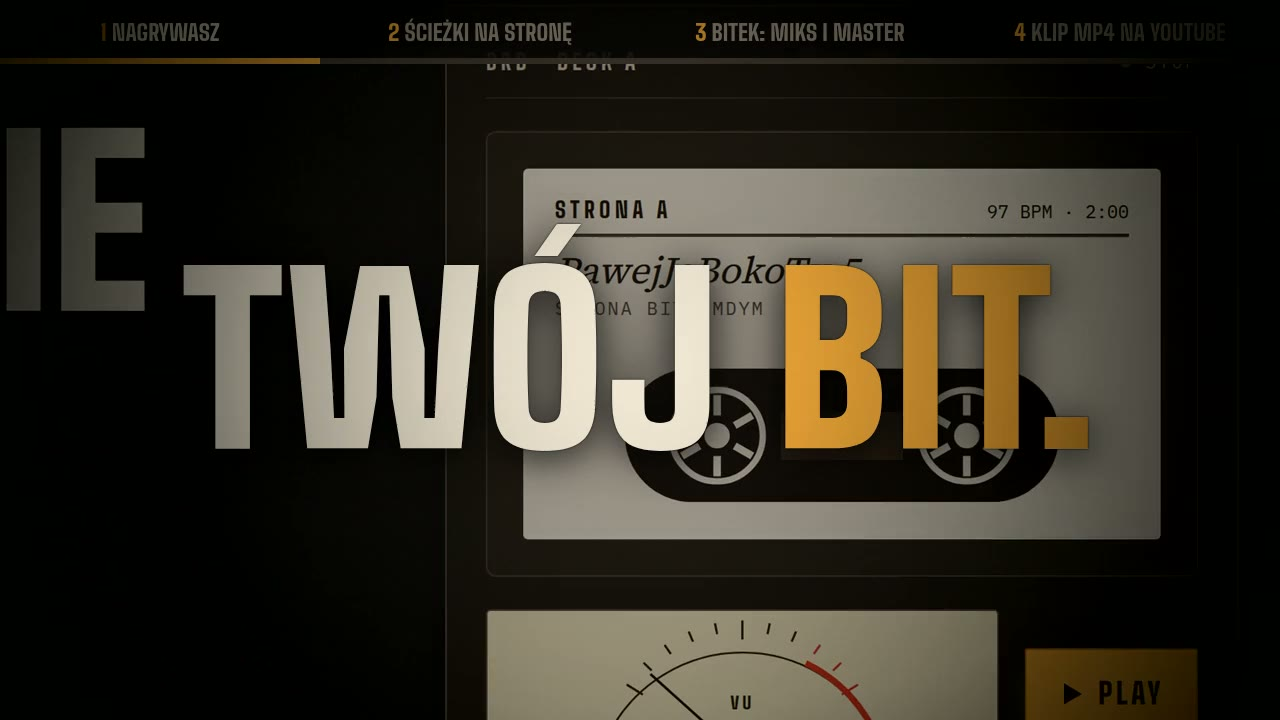
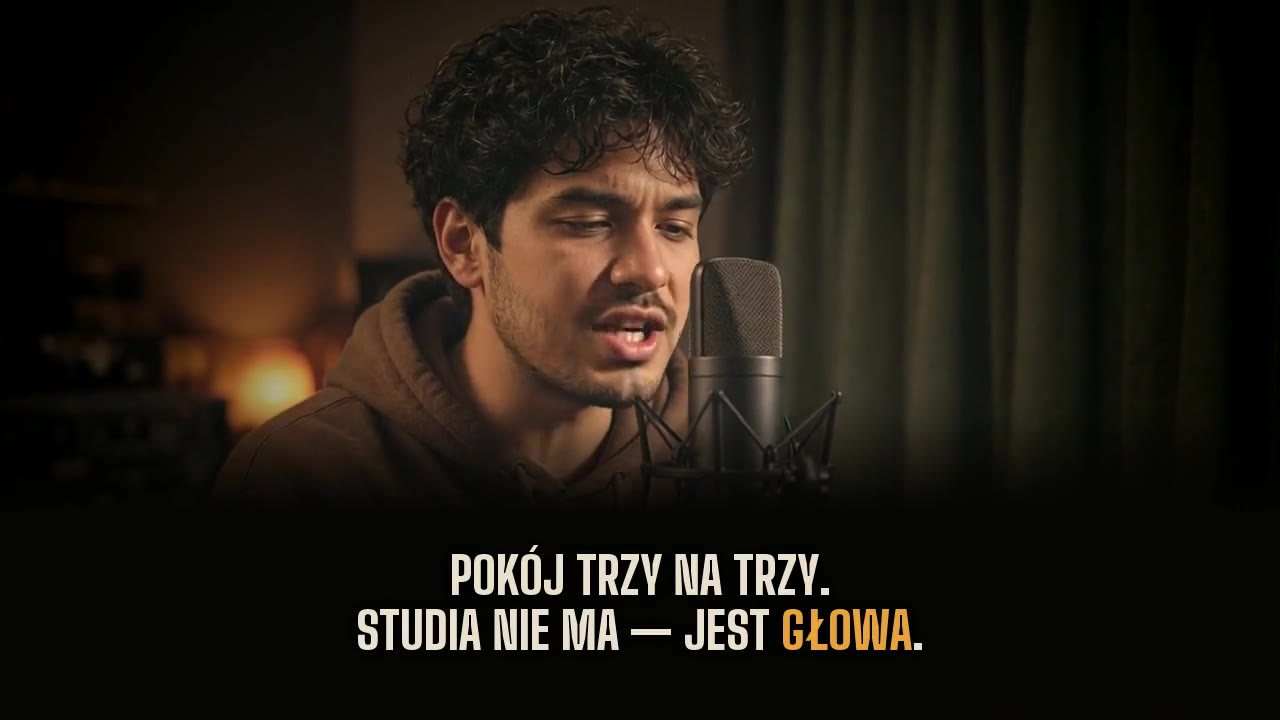
Strona główna: film obok kroków, nowa okładka filmu, karty planów (pełna tabela po rozwinięciu), krótsze i czytelniejsze teksty, nagłówek katalogu na górze

diff --git a/src/app/page.tsx b/src/app/page.tsx
@@ -19,8 +19,11 @@ import { toPublicCatalogItem } from "@/lib/beats/public";
 import { listPublishedBeats } from "@/lib/beats/service";
 import { presentBeats } from "@/lib/ui/demo-beats";
 import type { PremiumTier } from "@/types/premium";
+import { cn } from "@/lib/utils";
 
 const HOME_TIERS: PremiumTier[] = ["FREE", "BRONZE", "SILVER", "GOLD"];
+/** Rows shown on the plan cards; the full table stays one click away. */
+const CARD_ROW_IDS = ["take", "sesje", "sciezki", "stemy", "mastery", "pobieranie"] as const;
 const TIER_LABEL: Record<PremiumTier, string> = {
   FREE: "Free",
   BRONZE: "Bronze",
@@ -317,10 +320,6 @@ export default async function HomePage() {
         {/* CATALOG — side A tracklist */}
         <section aria-labelledby="home-katalog" className="border-b border-tape-line">
           <div className={`${wrap} py-[var(--tape-section-y)]`}>
-            <CommunityShelf current="beats" tone="tape" />
-            <p className="mb-6 max-w-prose text-sm leading-relaxed text-tape-cream-soft sm:text-base">
-              {community("pitch")}
-            </p>
             <div className="mb-6 flex flex-wrap items-end justify-between gap-4 border-b-4 border-tape-cream pb-3">
               <h2
                 id="home-katalog"
@@ -335,7 +334,11 @@ export default async function HomePage() {
                 {t("pelnySpis")}{" "}<span aria-hidden="true">→</span>
               </Link>
             </div>
+            <CommunityShelf current="beats" tone="tape" />
             <HomeTracklist beats={strip} />
+            <p className="mt-6 max-w-prose border-l-2 border-tape-amber pl-4 text-sm leading-relaxed text-tape-cream-soft sm:text-base">
+              {community("pitch")}
+            </p>
           </div>
         </section>
 
@@ -403,26 +406,31 @@ export default async function HomePage() {
             >
               {t("jakToDziala")}
             </h2>
-            <HomePromoFilm />
-            <ol className="mt-10 grid gap-y-10 sm:grid-cols-2 sm:gap-x-8 lg:grid-cols-4 lg:gap-x-0">
-              {steps.map((step, i) => (
-                <li key={step.title} className="relative lg:pr-8">
-                  <div aria-hidden="true" className="mb-4 flex items-center gap-3">
-                    <span className="size-3 rounded-full border-2 border-tape-amber bg-tape-soot" />
-                    <span className="h-px flex-1 bg-[repeating-linear-gradient(90deg,var(--tape-line-strong)_0_6px,transparent_6px_10px)]" />
-                  </div>
-                  <p className="font-poster text-6xl font-black leading-none text-tape-amber tabular-nums">
-                    {i + 1}
-                  </p>
-                  <h3 className="mt-3 font-poster text-2xl font-bold uppercase leading-none text-tape-cream">
-                    {step.title}
-                  </h3>
-                  <p className="mt-2 max-w-[36ch] text-sm leading-relaxed text-tape-cream-soft sm:text-base">
-                    {step.body}
-                  </p>
-                </li>
-              ))}
-            </ol>
+            <div className="mt-8 grid gap-10 lg:grid-cols-12 lg:items-start lg:gap-12">
+              <div className="lg:sticky lg:top-24 lg:col-span-7">
+                <HomePromoFilm />
+              </div>
+              <ol className="grid gap-x-8 gap-y-6 sm:grid-cols-2 lg:col-span-5 lg:grid-cols-1 lg:gap-y-5">
+                {steps.map((step, i) => (
+                  <li
+                    key={step.title}
+                    className="grid grid-cols-[2.75rem_minmax(0,1fr)] gap-x-3 border-b border-tape-line pb-5 last:border-0"
+                  >
+                    <p className="font-poster text-4xl font-black leading-none text-tape-amber tabular-nums">
+                      {i + 1}
+                    </p>
+                    <div>
+                      <h3 className="font-poster text-xl font-bold uppercase leading-none text-tape-cream sm:text-2xl">
+                        {step.title}
+                      </h3>
+                      <p className="mt-1.5 text-sm leading-relaxed text-tape-cream-soft sm:text-base">
+                        {step.body}
+                      </p>
+                    </div>
+                  </li>
+                ))}
+              </ol>
+            </div>
             <p className="mt-8 text-sm text-tape-cream-soft sm:text-base">
               <Link href="/jak-nagrac" className="underline underline-offset-4 hover:text-tape-cream" data-testid="home-limits-license-link">
                 {t("limityILicencja")}
@@ -448,7 +456,55 @@ export default async function HomePage() {
               </strong>
               {t("szczegolyHoldICo")}
             </p>
-            <OverflowXScrollRegion className="mt-8 overflow-x-auto border border-tape-line" ariaLabel={t("planTabelaAria")}>
+            <ul
+              aria-label={t("planNajwazniejsze")}
+              className="mt-8 grid gap-4 sm:grid-cols-2 xl:grid-cols-4"
+              data-testid="home-plan-cards"
+            >
+              {HOME_TIERS.map((tier) => {
+                const price = PLAN_POLICY[tier].price;
+                const save = yearlySavingPercent(price);
+                return (
+                  <li
+                    key={tier}
+                    className={cn(
+                      "flex flex-col rounded-[var(--tape-r-panel)] border bg-tape-panel p-5",
+                      tier === "GOLD" ? "border-tape-amber" : "border-tape-line-strong",
+                    )}
+                  >
+                    <p className="font-poster text-3xl font-black uppercase leading-none text-tape-cream">
+                      {TIER_LABEL[tier]}
+                    </p>
+                    <p className="mt-3 font-poster text-4xl font-black leading-none text-tape-amber">
+                      {price.monthlyPln == null ? t("planCenaFree") : money.format(price.monthlyPln)}{" "}
+                      <span className="font-sans text-base font-normal text-tape-cream-soft">
+                        {price.monthlyPln == null ? t("planBezOplat") : t("planMies")}
+                      </span>
+                    </p>
+                    <p className="mt-1 min-h-5 text-sm text-tape-cream-soft">
+                      {price.monthlyPln != null && save
+                        ? t("planRokTaniej", { y: money.format(price.yearlyPln ?? 0), n: save })
+                        : null}
+                    </p>
+                    <dl className="mt-4 divide-y divide-tape-line border-t border-tape-line text-sm">
+                      {planRows
+                        .filter((row) => (CARD_ROW_IDS as readonly string[]).includes(row.id))
+                        .map((row) => (
+                          <div key={row.id} className="flex items-baseline justify-between gap-3 py-2">
+                            <dt className="text-tape-cream-soft">{row.label}</dt>
+                            <dd className="text-right font-medium text-tape-cream">{row.cell(tier)}</dd>
+                          </div>
+                        ))}
+                    </dl>
+                  </li>
+                );
+              })}
+            </ul>
+            <details className="mt-6">
+              <summary className="inline-flex min-h-11 cursor-pointer items-center gap-2 font-mono text-sm uppercase tracking-[0.08em] text-tape-amber hover:underline">
+                {t("planWszystkie", { n: planRows.length })}
+              </summary>
+            <OverflowXScrollRegion className="mt-4 overflow-x-auto border border-tape-line" ariaLabel={t("planTabelaAria")}>
               <table className="w-full min-w-[44rem] text-left text-sm text-tape-cream" data-testid="home-plan-board">
                 <caption className="sr-only">{t("planTabelaAria")}</caption>
                 <thead className="border-b border-tape-line bg-tape-panel">
@@ -493,6 +549,7 @@ export default async function HomePage() {
               </li>
               <li>{t("planGosc", { s: GUEST_POLICY.previewSeconds })}</li>
             </ul>
+            </details>
             <div className="mt-6 flex flex-wrap gap-3">
               <Link href="/premium" className={ctaPrimary}>
                 {t("szczegolyPremium")}

diff --git a/src/components/home/home-promo-film.tsx b/src/components/home/home-promo-film.tsx
@@ -29,14 +29,14 @@ export function HomePromoFilm() {
   }
 
   return (
-    <figure className="mt-8 max-w-4xl border border-tape-line-strong bg-tape-panel p-4 shadow-[0_24px_60px_-24px_rgba(0,0,0,0.9)] sm:p-6">
+    <figure className="border border-tape-line-strong bg-tape-panel p-4 shadow-[0_24px_60px_-24px_rgba(0,0,0,0.9)] sm:p-6">
       <div className="mb-4 flex items-center justify-between gap-3 border-b border-tape-line pb-3">
         <p className="font-poster text-sm font-bold uppercase tracking-[var(--tape-tracking-label)] text-tape-cream-soft">
           {t("promoDeck")}
         </p>
         <p
           aria-hidden="true"
-          className="flex items-center gap-2 font-mono text-[11px] uppercase tracking-[0.14em] text-tape-mute"
+          className="flex items-center gap-2 font-mono text-xs uppercase tracking-[0.14em] text-tape-mute"
         >
           <span
             className={cn(

diff --git a/src/components/home/tape-deck.tsx b/src/components/home/tape-deck.tsx
@@ -56,7 +56,7 @@ export function TapeDeck({ beat }: { beat: PresentedBeat | null }) {
         <p className="font-poster text-sm font-bold uppercase tracking-[var(--tape-tracking-label)] text-tape-cream-soft">
           {t("brdDeckA")}
         </p>
-        <p className="flex items-center gap-2 font-mono text-[11px] uppercase tracking-[0.14em] text-tape-mute">
+        <p className="flex items-center gap-2 font-mono text-xs uppercase tracking-[0.14em] text-tape-mute">
           <span
             aria-hidden="true"
             className={cn(
